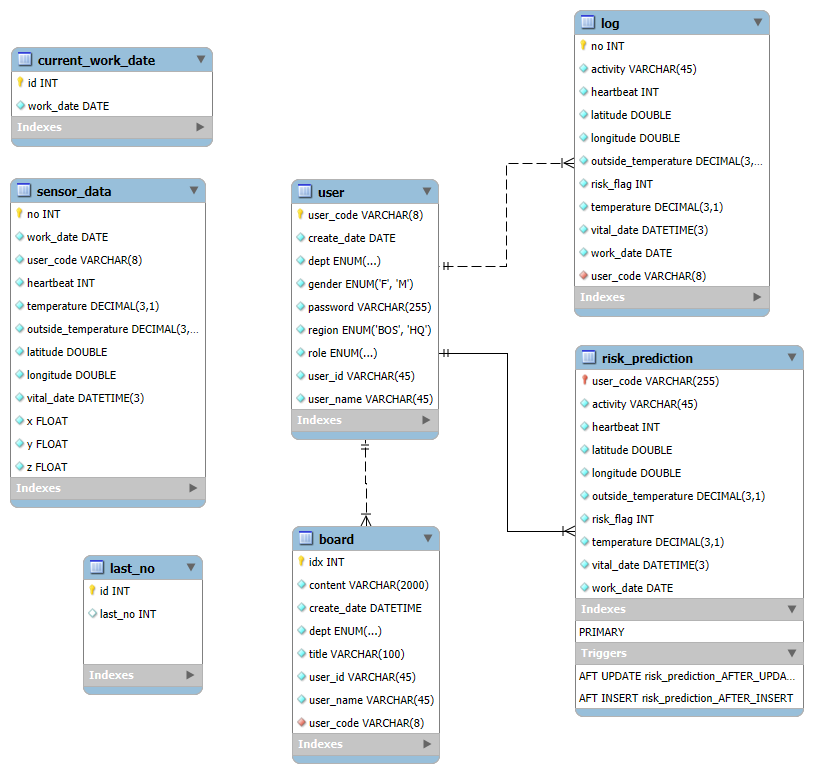
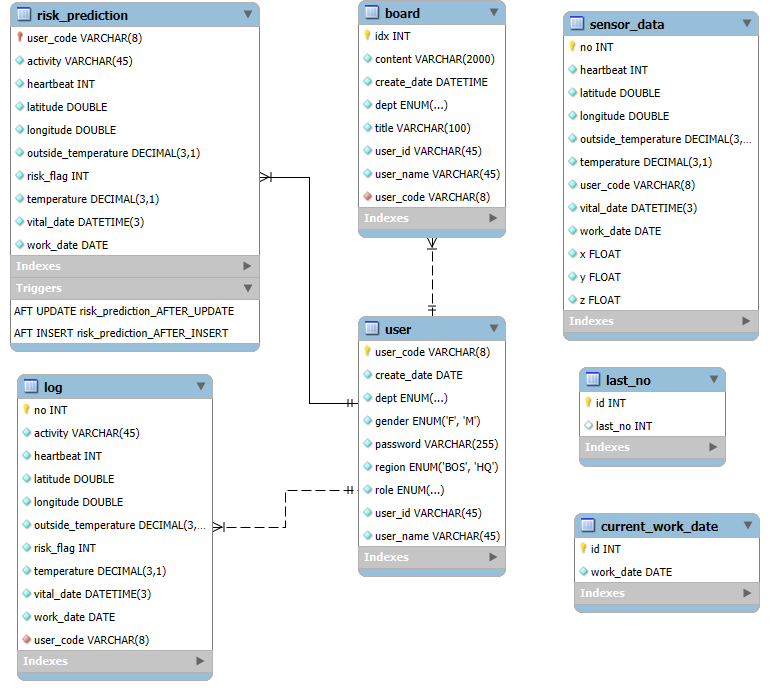
RiskPrediction 일대일, 단방향 설계 및 ERD 관계 일대일 수정

diff --git a/Back(SpringBoot)/Projects/AI_Project/src/main/java/com/ai/domain/RiskPrediction.java b/Back(SpringBoot)/Projects/AI_Project/src/main/java/com/ai/domain/RiskPrediction.java
@@ -4,6 +4,9 @@ import java.math.BigDecimal;
 import java.time.LocalDate;
 import java.time.LocalDateTime;
 
+import org.hibernate.annotations.Cascade;
+import org.hibernate.annotations.CascadeType;
+
 import com.fasterxml.jackson.annotation.JsonBackReference;
 import com.fasterxml.jackson.annotation.JsonFormat;
 import com.fasterxml.jackson.databind.annotation.JsonDeserialize;
@@ -19,6 +22,7 @@ import jakarta.persistence.Id;
 import jakarta.persistence.JoinColumn;
 import jakarta.persistence.ManyToOne;
 import jakarta.persistence.MapsId;
+import jakarta.persistence.OneToOne;
 import lombok.AllArgsConstructor;
 import lombok.Builder;
 import lombok.Getter;
@@ -71,8 +75,9 @@ public class RiskPrediction {
 	private String activity;
 	
 	
-    @ManyToOne
-    @JoinColumn(name = "userCode", nullable = false)
+	@OneToOne // 일대일 관계
+	@JoinColumn(name = "user_code", referencedColumnName = "user_code", nullable = false, unique = true) // unique 제약 조건 추가
+	@Cascade(CascadeType.ALL) 
     @MapsId
     @JsonBackReference // JSON 직렬화 시 제외
     private User user;

diff --git a/Back(SpringBoot)/Projects/AI_Project/src/main/java/com/ai/domain/User.java b/Back(SpringBoot)/Projects/AI_Project/src/main/java/com/ai/domain/User.java
@@ -15,6 +15,7 @@ import jakarta.persistence.EnumType;
 import jakarta.persistence.Enumerated;
 import jakarta.persistence.Id;
 import jakarta.persistence.OneToMany;
+import jakarta.persistence.OneToOne;
 import lombok.AllArgsConstructor;
 import lombok.Builder;
 import lombok.Getter;
@@ -74,9 +75,7 @@ public class User {
 	@JsonManagedReference 
 	private List<Log> logs;
 	
-	@OneToMany(mappedBy = "user", cascade = CascadeType.ALL)
-	@JsonManagedReference
-	private List<RiskPrediction> rps;
+
 	
 }
 
